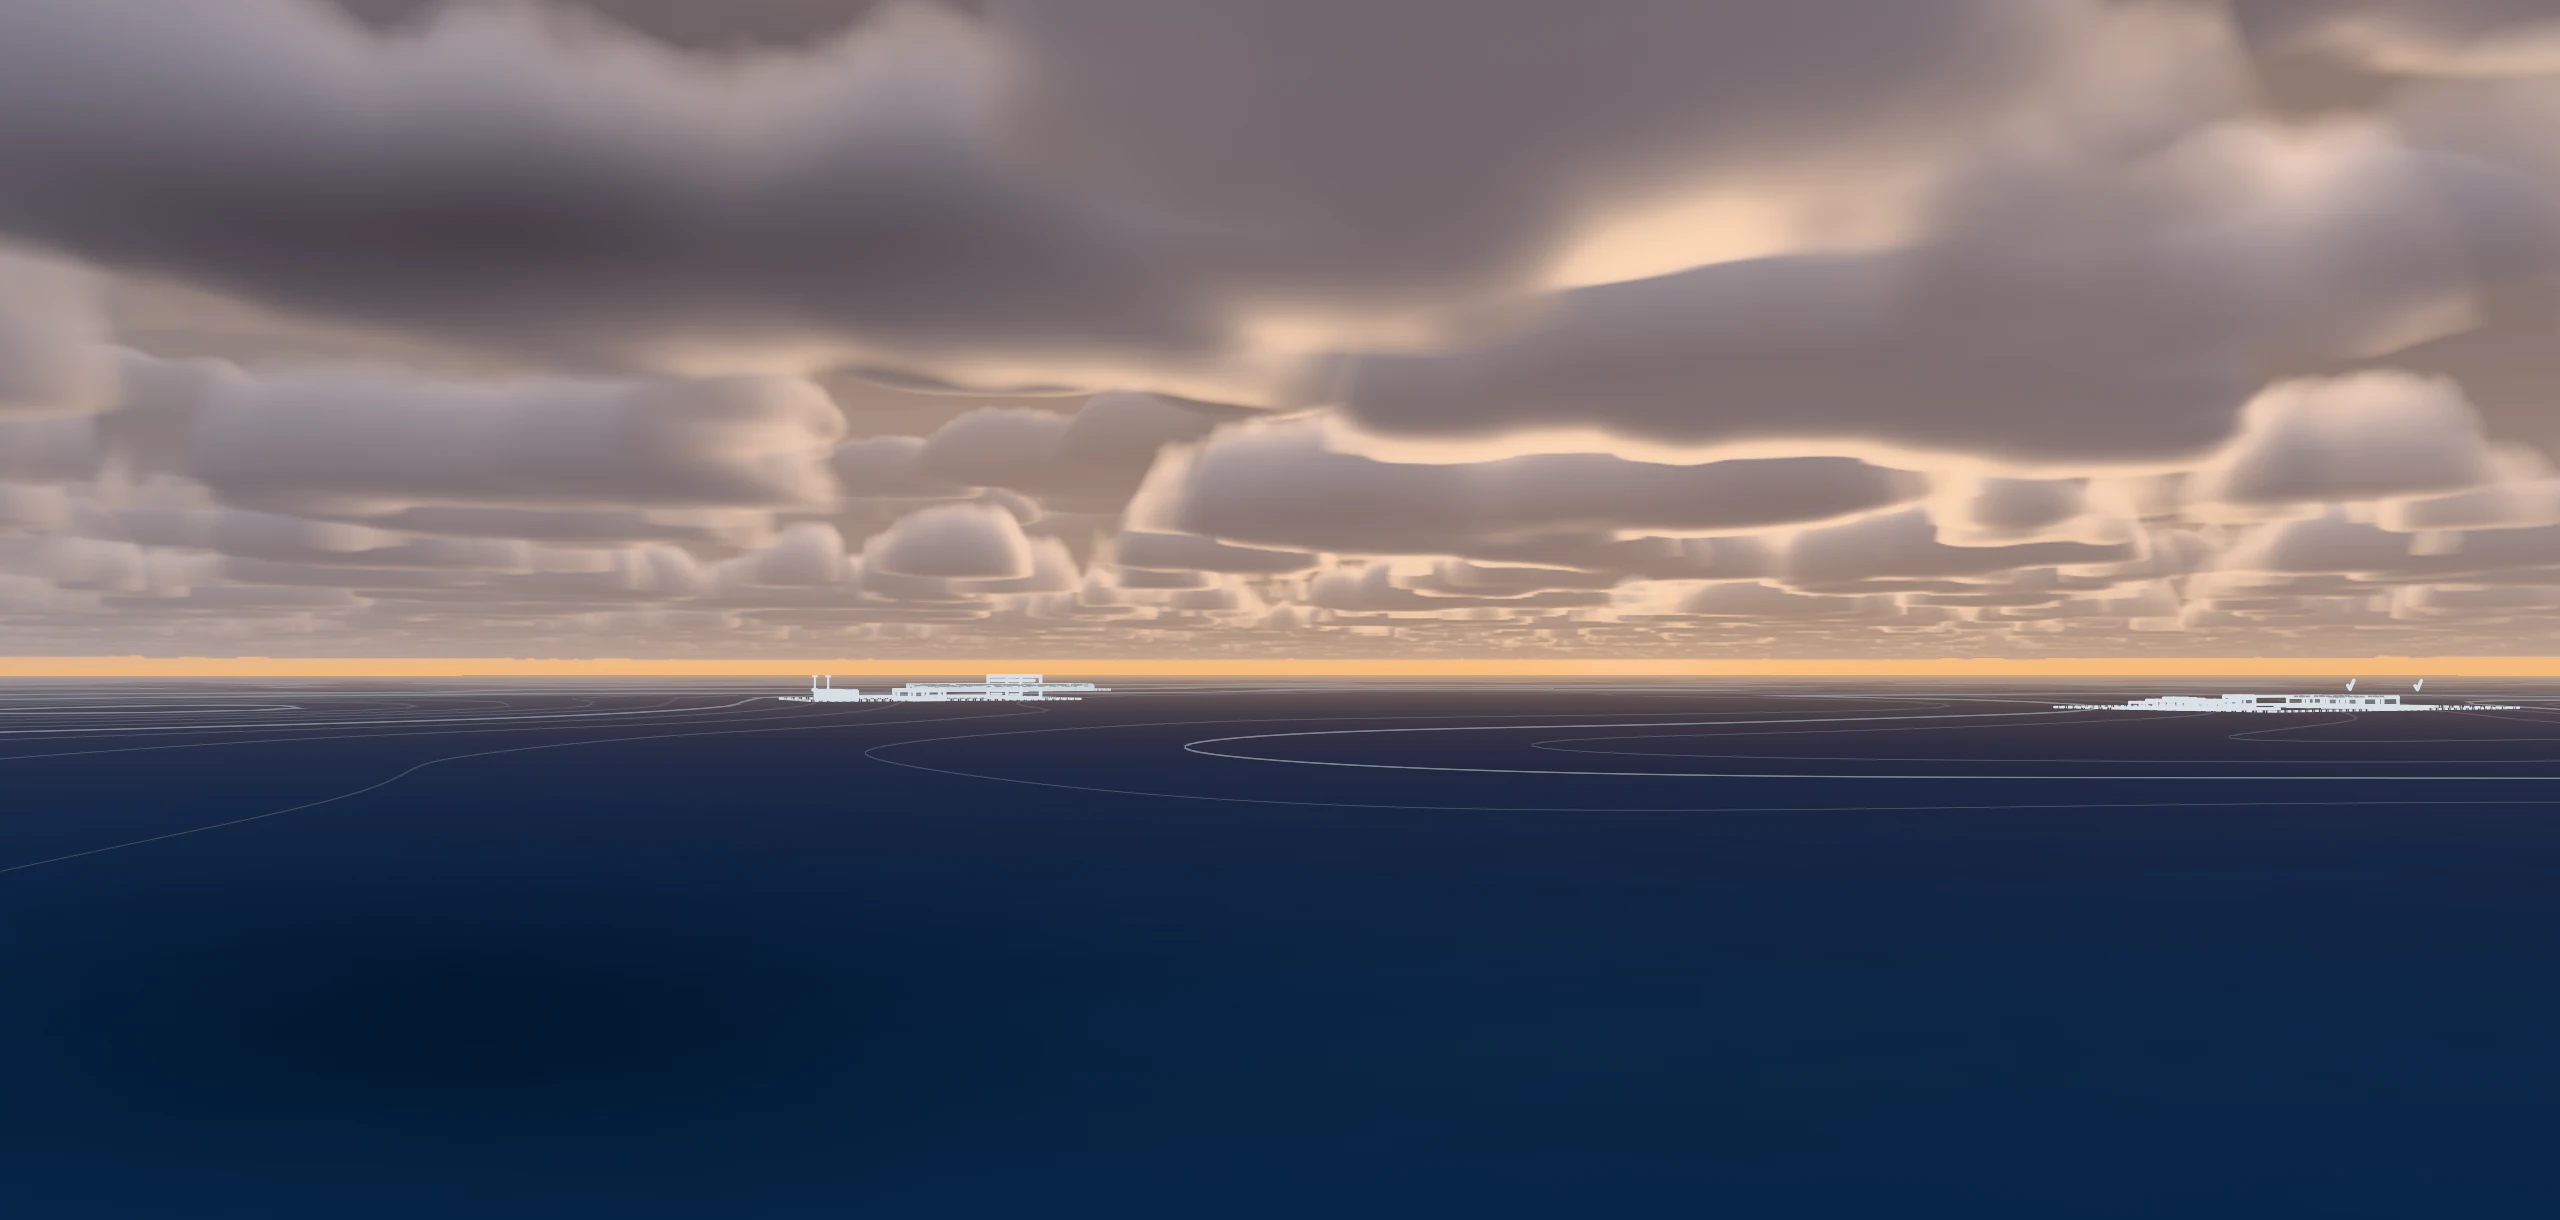
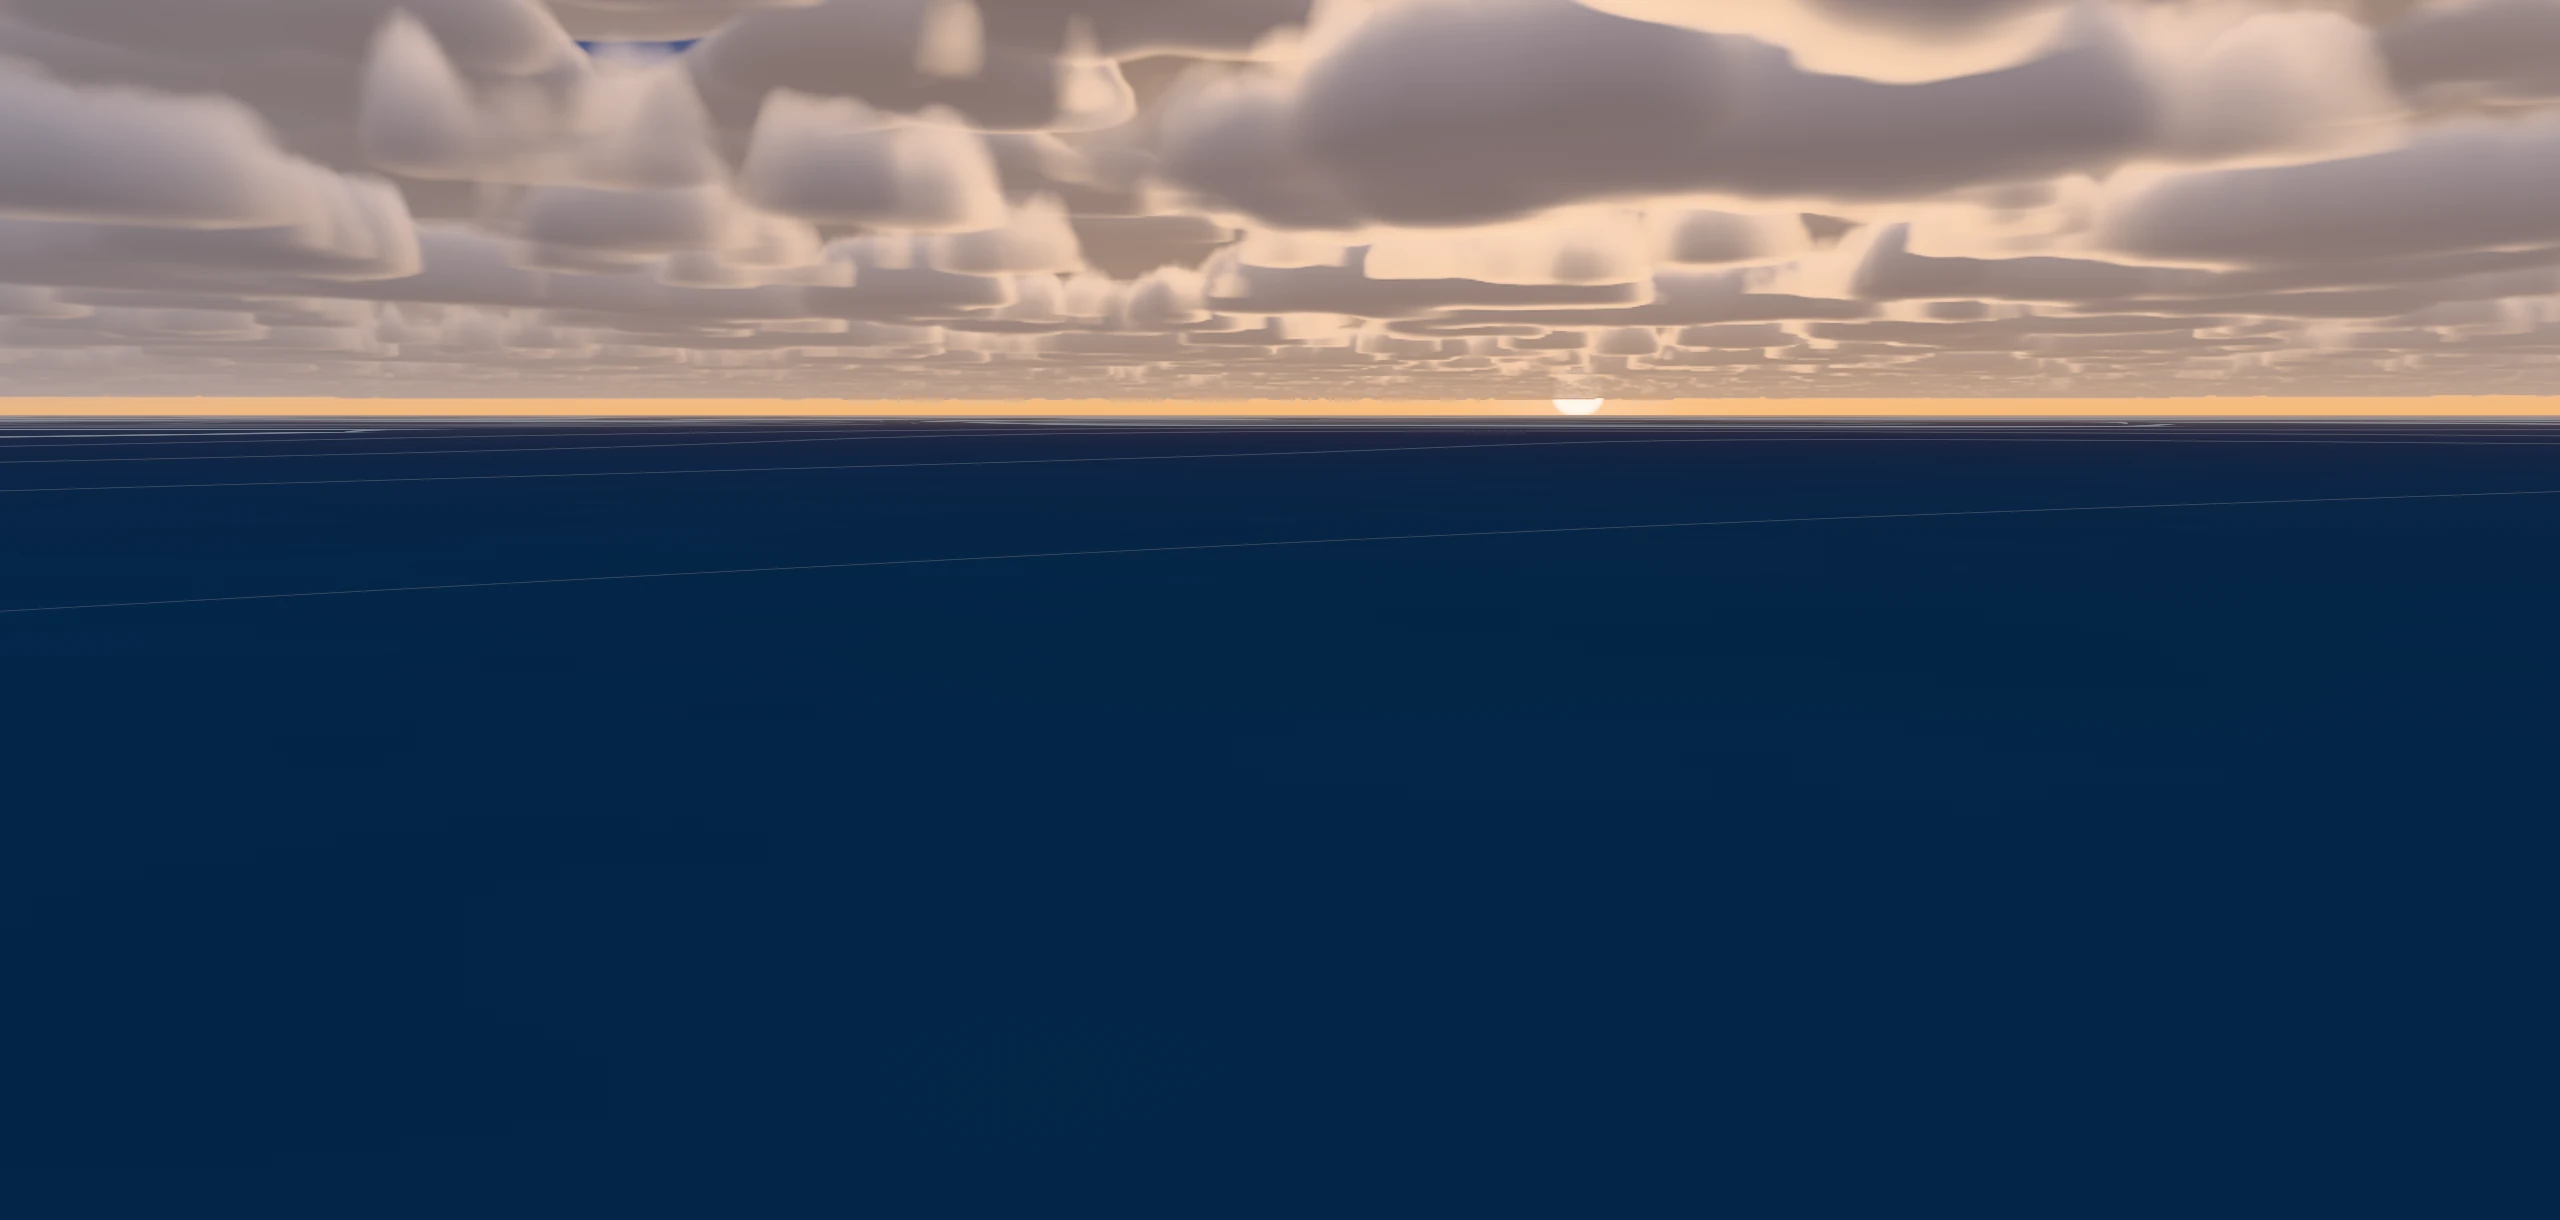
Stream the survey grid under the ground sections, add the approach and horizon stills, re-measure the approach as the page reflows, and measure contrast and record along the approach

diff --git a/src/altitude/home.css b/src/altitude/home.css
@@ -124,16 +124,17 @@ body.home {
 [data-mode='live'] .ground {
   margin-top: -40svh;
   padding-top: 40svh;
-  background: linear-gradient(to bottom, rgb(var(--veil) / 0), rgb(var(--veil) / 0.34) 40svh, transparent 40svh);
+  background: linear-gradient(to bottom, rgb(var(--veil) / 0), rgb(var(--veil) / 0.3) 40svh, transparent 40svh);
 }
 
+/* 0.62 keeps the faintest text (ink-3) above 5.5:1 over the moving sheet (contrast-over-image --goto). */
 [data-mode='live'] .ground-section:not(.landing) {
   background: linear-gradient(
     to bottom,
-    rgb(var(--veil) / 0.34),
-    rgb(var(--veil) / 0.7) min(28svh, 40%),
-    rgb(var(--veil) / 0.7) max(calc(100% - 18svh), 60%),
-    rgb(var(--veil) / 0.34)
+    rgb(var(--veil) / 0.3),
+    rgb(var(--veil) / 0.62) min(28svh, 40%),
+    rgb(var(--veil) / 0.62) max(calc(100% - 18svh), 60%),
+    rgb(var(--veil) / 0.3)
   );
 }
 
@@ -224,10 +225,10 @@ body.home {
   z-index: -1;
 }
 
-/* In still mode the approach's still dissolves into the horizon's, not a seam. */
+/* In still mode the approach's still dissolves into the horizon's, not a seam; a narrow band, so the sky stays. */
 :root:not([data-mode='live']) .landing .landing-still {
-  -webkit-mask-image: linear-gradient(to bottom, transparent, #000 22svh);
-  mask-image: linear-gradient(to bottom, transparent, #000 22svh);
+  -webkit-mask-image: linear-gradient(to bottom, transparent, #000 8svh);
+  mask-image: linear-gradient(to bottom, transparent, #000 8svh);
 }
 
 /*

diff --git a/src/altitude/flights/home.ts b/src/altitude/flights/home.ts
@@ -212,12 +212,23 @@ export const homeFlight: Director = {
     const w = windowAt(p);
     const c = FLIGHTS.landscape.at(p, 'landscape').pos;
     const first = WINDOWS[0].site;
+    const site: [number, number, number, number] = [w.site[0] - 175, w.site[2] - 115, w.site[0] + 175, w.site[2] + 115];
+    // On the approach the survey grid runs on under the sections: it grows out of the last
+    // drawing's site into a square riding ahead of the camera, so the sheet streams past beneath
+    // the words, and fades as the camera flares, so contact stands on the open sheet.
+    if (p > 1) {
+      const ahead = [c[0] + SUNWARD[0] * 450, c[2] + SUNWARD[1] * 450];
+      const roam = [ahead[0] - 800, ahead[1] - 800, ahead[0] + 800, ahead[1] + 800];
+      const k = smoothstepRange(1, 1.08, p);
+      for (let i = 0; i < 4; i++) site[i] += (roam[i] - site[i]) * k;
+    }
     return {
       // The one break in the deck: over the dive to the first drawing.
       deck: [first[0] + 30, first[2] + 520, 820, 600],
       // The low wisps always part around the camera, so they never stand between it and a drawing.
       wisps: [c[0], c[2] - 120, 420, 420],
-      site: [w.site[0] - 175, w.site[2] - 115, w.site[0] + 175, w.site[2] + 115],
+      site,
+      grid: 1 - smoothstepRange(APPROACH.glideEnd, 1.93, p),
     };
   },
   groundVisible: (c) => c.pos[1] < 1950,

diff --git a/src/altitude/engine/ground.ts b/src/altitude/engine/ground.ts
@@ -33,6 +33,7 @@ uniform vec3 uSunDir;
 uniform float uFogDensity;
 uniform float uMapOn;
 uniform vec4 uSite;
+uniform float uGridI;
 uniform mat4 uInvViewProj;
 uniform vec2 uResolution;
 ${HAZE}
@@ -107,10 +108,10 @@ void main() {
   vec2 hi = uSite.zw + 70.0;
   vec2 inside = smoothstep(lo, lo + 60.0, vWorld.xz) * (1.0 - smoothstep(hi - 60.0, hi, vWorld.xz));
   float site = inside.x * inside.y;
-  if (site > 0.0 && dist < 2200.0) {
+  if (site > 0.0 && dist < 2200.0 && uGridI > 0.0) {
     float ink = 0.72 + 0.28 * (gnoise(vWorld.xz / 31.0 + 5.5) * 0.5 + 0.5);
     float g = (grid(vWorld.xz, 8.0) * 0.03 + grid(vWorld.xz, 40.0) * 0.1) * ink;
-    col = mix(col, vec3(0.62, 0.72, 0.84), g * site * uMapOn * (1.0 - smoothstep(600.0, 2200.0, dist)));
+    col = mix(col, vec3(0.62, 0.72, 0.84), g * site * uMapOn * uGridI * (1.0 - smoothstep(600.0, 2200.0, dist)));
   }
 
   float fog = 1.0 - exp(-dist * uFogDensity * 1.6);
@@ -161,6 +162,7 @@ export function createGround(dpr: number): { group: Group; setDpr(v: number): vo
       uFogDensity: shared.uFogDensity,
       uMapOn: { value: 1 },
       uSite: shared.uSite,
+      uGridI: shared.uGridI,
       uInvViewProj: shared.uInvViewProj,
       uResolution: shared.uResolution,
     },

diff --git a/src/altitude/home.ts b/src/altitude/home.ts
@@ -202,6 +202,8 @@ function startLive(): void {
     engine?.resize();
     keptFor = null;
   });
+  // The page's height moves when the web font arrives (the sections rewrap), and contact with it.
+  new ResizeObserver(() => measure()).observe(document.body);
 
   // The drawing whose labels show keeps them off its copy, read once per hold. The plate is the
   // base (fixed where the stage is), which cancels its parking offset.

diff --git a/src/altitude/engine/engine.ts b/src/altitude/engine/engine.ts
@@ -284,6 +284,7 @@ export class AltitudeEngine {
     shared.uBreak.value.set(...w.deck);
     shared.uWispClear.value.set(...w.wisps);
     shared.uSite.value.set(...w.site);
+    shared.uGridI.value = w.grid ?? 1;
     // Below the deck the light is brighter; the exposure keeps it from blowing out.
     this.exposure = 1.05 - s.dawn * 0.22;
   }

diff --git a/src/altitude/engine/uniforms.ts b/src/altitude/engine/uniforms.ts
@@ -42,6 +42,8 @@ export const shared = {
   uBreak: { value: new Vector4(0, 0, 0, 1) },
   uWispClear: { value: new Vector4(0, 0, 0, 1) },
   uSite: { value: new Vector4(0, 0, 0, 0) },
+  /** How strongly the survey grid is drawn, 0 to 1 (the director's weather). */
+  uGridI: { value: 1 },
 };
 
 export type SharedUniforms = typeof shared;

diff --git a/src/altitude/engine/scene.ts b/src/altitude/engine/scene.ts
@@ -55,6 +55,8 @@ export interface Weather {
   wisps: Clearing;
   /** The survey grid under the drawing: x0, z0, x1, z1. */
   site: [number, number, number, number];
+  /** How strongly the survey grid is drawn, 0 to 1 (1 when left out). */
+  grid?: number;
 }
 
 export interface Director {
